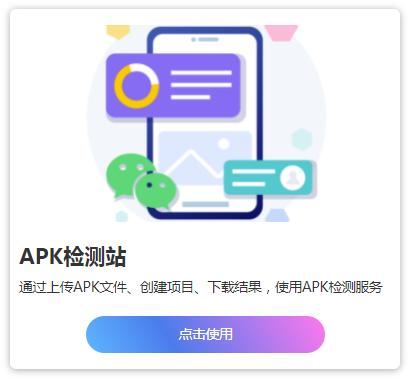
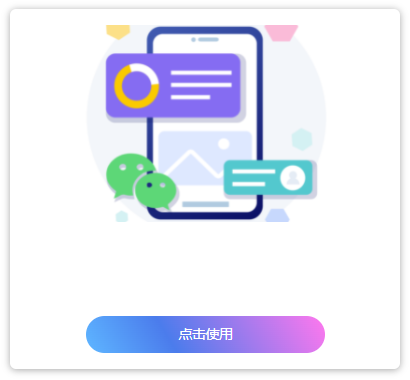
首页文字和图片分离暂时完成

Changed region(s): [[0.0293, 0.6368, 0.6439, 0.7816], [0.6732, 0.7237, 0.9366, 0.7816]]

diff --git a/C2Main/Controls/ThumbViews/ThumbView.cs b/C2Main/Controls/ThumbViews/ThumbView.cs
@@ -6,6 +6,7 @@ using System;
 using System.Collections.Generic;
 using System.ComponentModel;
 using System.Drawing;
+using System.Drawing.Imaging;
 using System.IO;
 using System.Linq;
 using System.Windows.Forms;
@@ -30,13 +31,17 @@ namespace C2.Controls
 
         public event ThumbViewItemCancelEventHandler ItemClosing;
         public event ThumbViewItemEventHandler ItemClosed;
-        
+        public string filePath;
+        public string savePath;
+        public bool isPaint = false;
+
+
 
         public ThumbView()
         {
-            _Dimension = new System.Drawing.Size(4, 2);
-            _CellSize = new System.Drawing.Size(210, 180);
-            _MinimumCellSize = new System.Drawing.Size(120, 100);
+            _Dimension = new Size(4, 2);
+            _CellSize = new Size(210, 180);
+            _MinimumCellSize = new Size(120, 100);
             _CellSpace = new Size(16, 30);
             ShowEmptyCells = true;
             SetPaintStyles();
@@ -44,6 +49,7 @@ namespace C2.Controls
             Items = new XList<ThumbItem>();
             Items.ItemAdded += Items_ItemAdded;
             Items.ItemRemoved += Items_ItemRemoved;
+            //StartPaint();
             InitItems();
             this.BackColor = SystemColors.ControlLightLight;
             CellBackColor = SystemColors.ControlLightLight;
@@ -55,17 +61,112 @@ namespace C2.Controls
         }
         void InitItems()
         {
-            Items.Add(new ThumbItem("逻辑图",           global::C2.Properties.Resources.首页_分析笔记, ThumbItem.ModelTypes.AnalysisNotes));
-            Items.Add(new ThumbItem("树状图",           global::C2.Properties.Resources.首页_战术手册, ThumbItem.ModelTypes.TacticalManual));
-            Items.Add(new ThumbItem("组织架构图",       global::C2.Properties.Resources.首页_喝彩城堡, ThumbItem.ModelTypes.CastleBravo));
-            Items.Add(new ThumbItem("思维导图",         global::C2.Properties.Resources.首页_实验楼, ThumbItem.ModelTypes.Laboratory));
-            Items.Add(new ThumbItem("JS自动化过滤流程", global::C2.Properties.Resources.首页_网站侦察兵, ThumbItem.ModelTypes.WebsiteScout));
-            Items.Add(new ThumbItem("YHK提取",          global::C2.Properties.Resources.首页_APK检测站, ThumbItem.ModelTypes.APKMonitor));
-            Items.Add(new ThumbItem("关键词分析",       global::C2.Properties.Resources.首页_知识库, ThumbItem.ModelTypes.Knowledge));
-            Items.Add(new ThumbItem("同群分析",         global::C2.Properties.Resources.首页_HIBU, ThumbItem.ModelTypes.HIBU));
-            //Items.Add(new ThumbItem(string.Empty, global::C2.Properties.Resources.modelTopLabel, ThumbItem.ModelTypes.Null));
-            //Items.Add(new ThumbItem(string.Empty, global::C2.Properties.Resources.BusinessViewLabel, ThumbItem.ModelTypes.Null));
+            Items.Add(new ThumbItem("分析笔记", "承载分析师的分析思路，落地分析过程，记录分析结果",          global::C2.Properties.Resources.首页_分析笔记, ThumbItem.ModelTypes.AnalysisNotes));
+            Items.Add(new ThumbItem("战术手册","流程化的战法指导，供选择，可参考、可复用",          global::C2.Properties.Resources.首页_战术手册, ThumbItem.ModelTypes.TacticalManual));
+            Items.Add(new ThumbItem("喝彩城堡", "模型闭环配套的安全工具",      global::C2.Properties.Resources.首页_喝彩城堡, ThumbItem.ModelTypes.CastleBravo));
+            Items.Add(new ThumbItem("实验楼",  "常用分析小工具集合",       global::C2.Properties.Resources.首页_实验楼, ThumbItem.ModelTypes.Laboratory));
+            Items.Add(new ThumbItem("网站侦察兵", "对网站进行爬取、分类并截图，最终将判别结果返回给用户",    global::C2.Properties.Resources.首页_网站侦察兵, ThumbItem.ModelTypes.WebsiteScout));
+            Items.Add(new ThumbItem("APK监测站","通过上传APK文件、创建项目、下载结果，使用APK检测服务",          global::C2.Properties.Resources.首页_APK检测站, ThumbItem.ModelTypes.APKMonitor));
+            Items.Add(new ThumbItem("知识库", "各业务方向关键词、线索查询、上传、下载",      global::C2.Properties.Resources.首页_知识库, ThumbItem.ModelTypes.Knowledge));
+            Items.Add(new ThumbItem("HIBU",   "提供23种AI能力",      global::C2.Properties.Resources.首页_HIBU, ThumbItem.ModelTypes.HIBU));
         }
+
+        public void StartPaint()
+        {
+            string dir = Application.StartupPath;
+            //string dir = Path.GetFullPath(@"..//..");
+            //MessageBox.Show(dir);
+            string inPut = Path.Combine(dir, "Resources", "StartPage", "example");
+            string[] inDirs = Directory.GetFiles(inPut, "首页*.png");
+
+            string outPut = Path.Combine(dir, "Resources", "StartPage");
+            string[] outDirs = Directory.GetFiles(outPut, "首页*.png");
+
+            for (int i = 0; i < inDirs.Length; i++)
+            {
+                filePath = inDirs[i];
+                savePath = outDirs[i];
+                if (i == 0 )
+                {
+                    isPaint = true;
+                    AddTextToImage("分析笔记", "承载分析师的分析思路，落地分析过程，记录分析结果");
+                }
+
+                else if (i == 1 )
+                {
+                    isPaint = true;
+                    AddTextToImage("战术手册", "流程化的战法指导，供选择，可参考，可复用");
+                }
+                else if (i == 2 )
+                {
+                    isPaint = true;
+                    AddTextToImage("喝彩城堡", "模型闭环配套的安全工具");
+                }
+                else if (i == 3)
+                {
+                    //isPaint = true;
+                    AddTextToImage("常用分析小工具集合", "实验楼");
+                }
+                else if (i == 4 )
+                {
+                    isPaint = true;
+                    AddTextToImage("网站侦察兵", "对网站进行爬取，分类并截图，最终将判断结果返回给客户");
+                }  
+                else if (i == 5 )
+                {
+                    isPaint = true;
+                    AddTextToImage("APK监测站", "通过上传APK文件、创建项目、下载结果，使用APK监测服务");
+                }  
+                else if (i == 6 )
+                {
+                    isPaint = true;
+                    AddTextToImage("知识库", "各业务方向关键词、线索查询、上传、下载");
+                }        
+                else if (i == 7 )
+                {
+                    isPaint = true;
+                    AddTextToImage("HIBU", "提供23种AI能力");
+                }     
+            }
+            isPaint = false;
+        }
+
+        
+        private void AddTextToImage(string text, string text2)
+        {
+            /*
+            if (!File.Exists(filePath))
+                throw new FileNotFoundException("文件不存在");
+            */
+            
+            if (string.IsNullOrEmpty(text))
+                return;
+
+            Image image = Image.FromFile(filePath);
+            Bitmap bitmap = new Bitmap(image, image.Width, image.Height);
+            Graphics g = Graphics.FromImage(bitmap);
+
+            Font fontTitle = new Font("微软雅黑", 15f, FontStyle.Bold);
+            Font fontContent = new Font("微软雅黑", 10f);
+
+            float rectWidth = text.Length * 15f + fontTitle.Height * 2;
+
+            RectangleF textAreaTitle = new RectangleF(15, 245, rectWidth, image.Height - 60);
+            RectangleF textAreaContent = new RectangleF(15, 280, 400, image.Height - 60);
+
+            Brush whiteBrush = new SolidBrush(Color.Black);
+
+            g.DrawString(text, fontTitle, whiteBrush, textAreaTitle);
+            g.DrawString(text2, fontContent, whiteBrush, textAreaContent);
+            bitmap.Save(savePath, ImageFormat.Png);
+
+            g.Dispose();
+            bitmap.Dispose();
+            image.Dispose();
+        }
+    
+
+
         [DefaultValue(typeof(Size), "4, 2")]
         public Size Dimension
         {

diff --git a/C2Main/Controls/ThumbViews/ThumbItem.cs b/C2Main/Controls/ThumbViews/ThumbItem.cs
@@ -1,5 +1,6 @@
 using System;
 using System.Drawing;
+using System.Windows.Forms;
 
 namespace C2.Controls
 {
@@ -10,7 +11,9 @@ namespace C2.Controls
         Color _BackColor;
         Color _ForeColor;
         string _Text;
+        string _TextContent;
         Image _Image;
+        
 
         public event EventHandler Click;
 
@@ -38,9 +41,10 @@ namespace C2.Controls
         }
         public ModelTypes Types { get; set; }
 
-        public ThumbItem(string text, Image image, ModelTypes types)
+        public ThumbItem(string text, string textContent, Image image, ModelTypes types)
         {
             Text = text;
+            TextContent = textContent;
             Image = image;
             Types = types;
         }
@@ -107,6 +111,19 @@ namespace C2.Controls
                 if (_Text != value)
                 {
                     _Text = value;
+                    OnTextChanged();
+                }
+            }
+        }
+
+        public string TextContent
+        {
+            get { return _TextContent; }
+            set
+            {
+                if (_TextContent != value)
+                {
+                    _TextContent = value;
                     OnTextChanged();
                 }
             }
@@ -186,25 +203,34 @@ namespace C2.Controls
             return OnPaint(e);
         }
 
+        public Tuple<float, float> autoFont()
+        {
+            string scrWidth = Screen.PrimaryScreen.Bounds.Width.ToString();
+            float fontSizeTitle;
+            float fontSizeContent;
+            switch (scrWidth)
+            {
+                case "1920":
+                    fontSizeTitle = 15f;
+                    fontSizeContent = 10f;
+                    break;
+                case "1366":
+                    fontSizeTitle = 10f;
+                    fontSizeContent = 7f;
+                    break;
+                default:
+                    fontSizeTitle = 10f;
+                    fontSizeContent = 7f;
+                    break;
+            }
+            float[] T = { fontSizeTitle, fontSizeContent };
+            Tuple<float, float> tup = new Tuple<float, float>(T[0], T[1]);
+            return tup;
+        }
+
         protected virtual bool OnPaint(ThumbViewPaintEventArgs e)
         {
             e.PaintBackground();
-
-            // text
-            //var textHeight = e.Font.Height + 6;
-            //var rectText = new Rectangle(Left, Bottom - textHeight, Width, textHeight);
-            //if (!string.IsNullOrEmpty(Text))
-            //{
-            //    var sf = PaintHelper.SFCenter;
-            //    sf.Trimming = StringTrimming.EllipsisCharacter;
-            //    sf.FormatFlags |= StringFormatFlags.NoWrap;
-
-            //    e.Graphics.DrawString(Text,
-            //        e.Font,
-            //        Selected ? new SolidBrush(e.View.ActiveCellForeColor) : new SolidBrush(e.View.CellForeColor),
-            //        rectText,
-            //        sf);
-            //}
 
             // image
             if (Image != null)
@@ -213,8 +239,46 @@ namespace C2.Controls
                 // modified by DK: 小白的缩略图需要放大。
                 // 图标大小修改，需要改一下PaintHelp方法
                 PaintHelper.DrawImageInRange(e.Graphics, Image, rectImg, true);
+                //e.Graphics.DrawImage(Image,rectImg);
             }
 
+
+            // text
+            Font fontTitle = new Font("微软雅黑", autoFont().Item1, FontStyle.Bold);
+            Font fontContent = new Font("微软雅黑", autoFont().Item2);
+
+            var textHeight = fontTitle.Height;
+            var rectText = new Rectangle(Left+15, ((Top+Bottom)/2+Bottom)/2-textHeight*2, Width-15, Height-40);
+            Brush whiteBrush = new SolidBrush(Color.Black);
+            e.Graphics.DrawString(Text,fontTitle, whiteBrush,rectText);
+
+
+            var textHeightContent = fontContent.Height+6;
+            var rectTextContent = new Rectangle(Left+15, ((Top + Bottom) / 2 + Bottom) / 2 - textHeightContent, Width-15, Height-100);
+            e.Graphics.DrawString(TextContent,fontContent, whiteBrush,rectTextContent);
+
+
+            /*
+            if (!string.IsNullOrEmpty(Text) && !string.IsNullOrEmpty(TextContent))
+            {
+                var sf = PaintHelper.SFCenter;
+                sf.Trimming = StringTrimming.EllipsisCharacter;
+                sf.FormatFlags |= StringFormatFlags.NoWrap;
+
+                e.Graphics.DrawString(Text,
+                    fontTitle,
+                    Selected ? new SolidBrush(e.View.ActiveCellForeColor) : new SolidBrush(e.View.CellForeColor),
+                    rectText,
+                    sf);
+                
+                e.Graphics.DrawString(TextContent,
+                    fontContent,
+                    Selected ? new SolidBrush(e.View.ActiveCellForeColor) : new SolidBrush(e.View.CellForeColor),
+                    rectTextContent,
+                    sf);
+                
+            }
+            */
             return true;
         }
 
